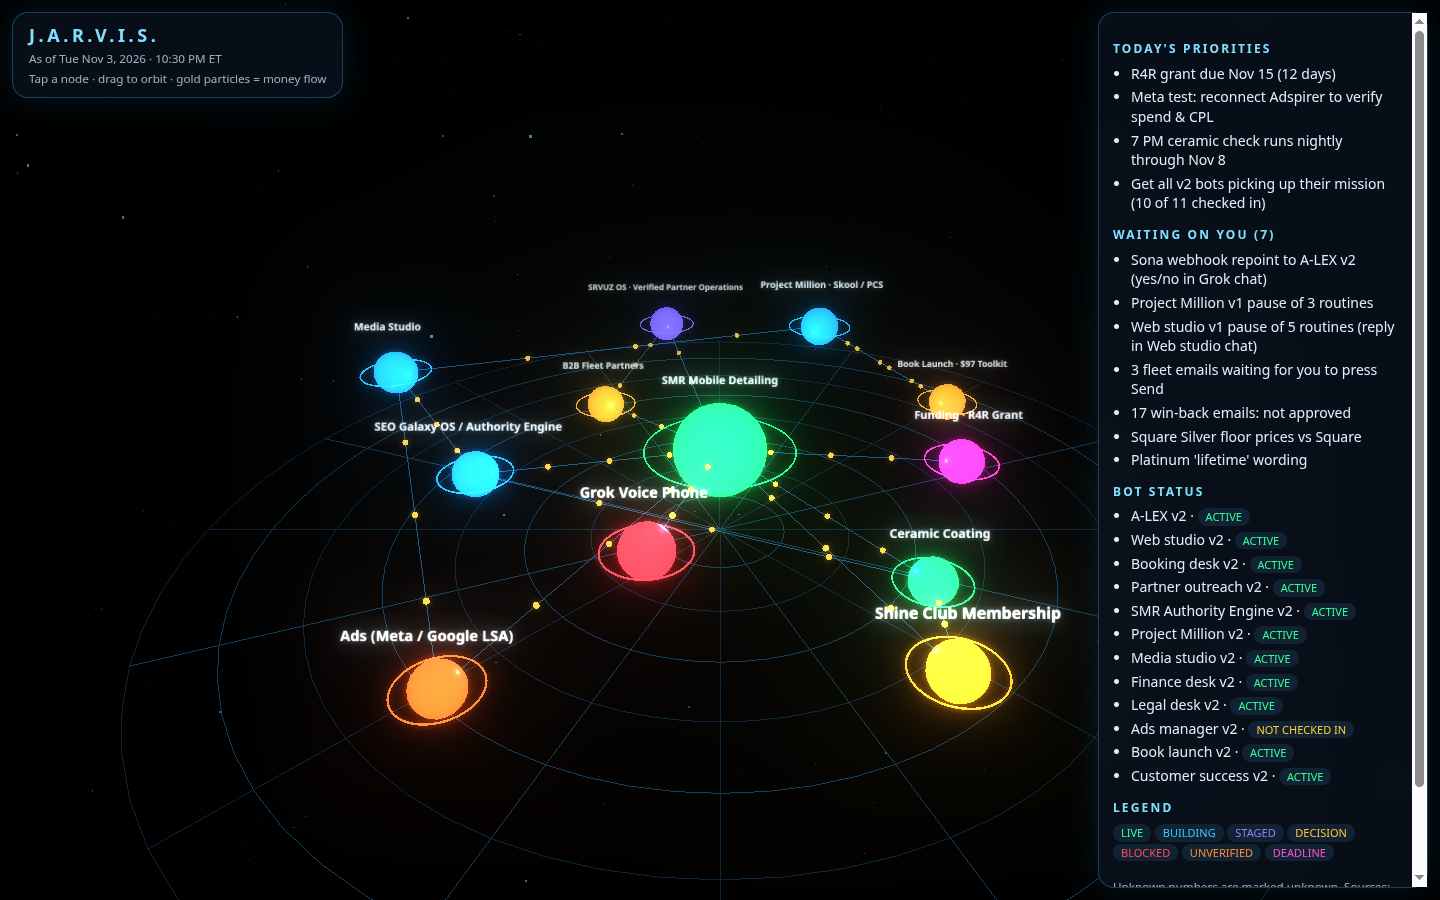
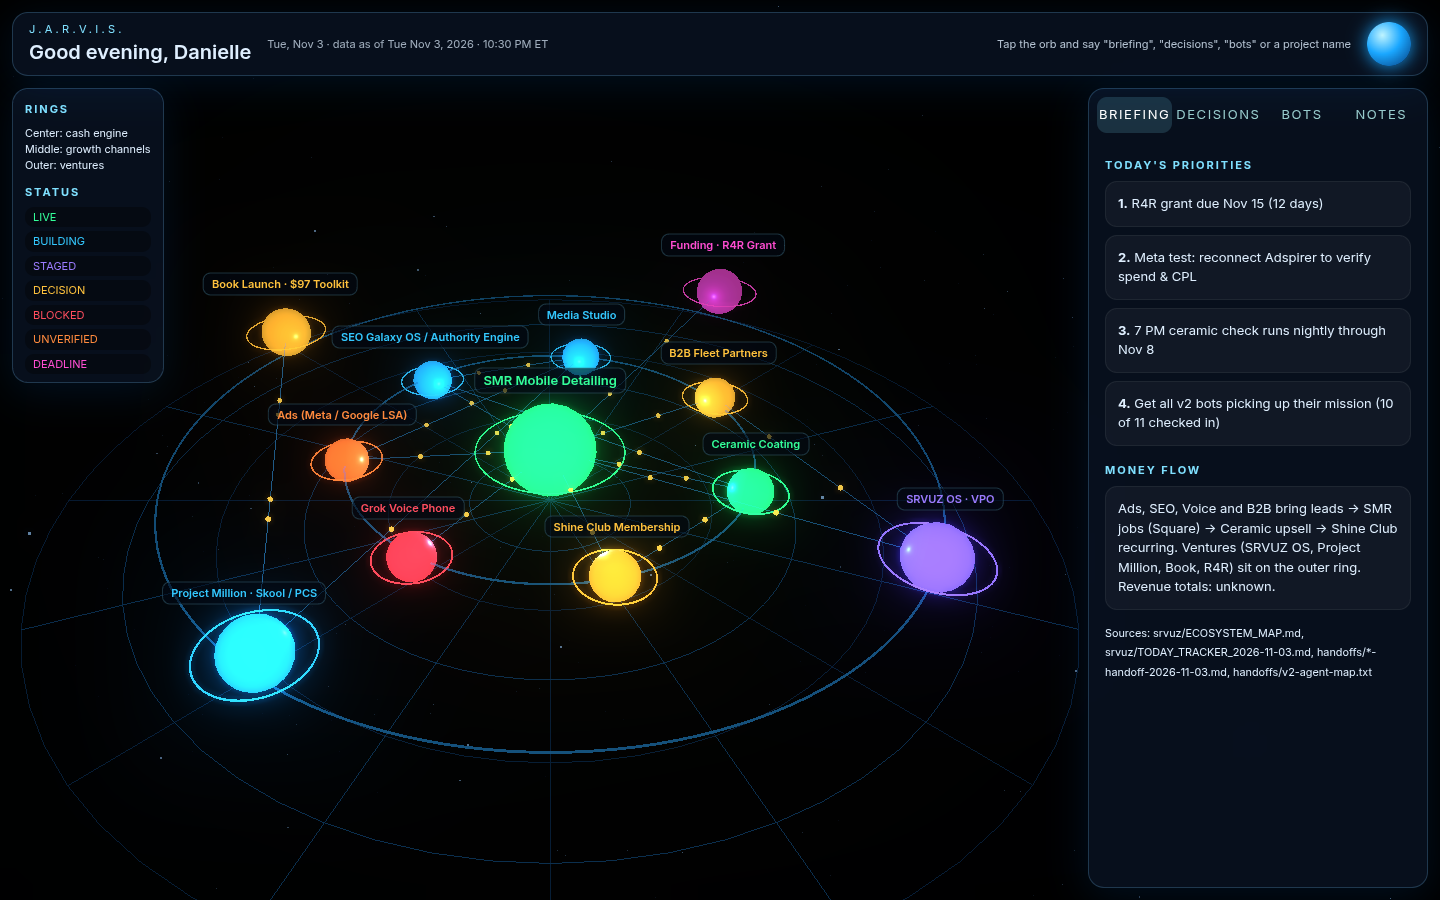
organized layout + voice

diff --git a/index.html b/index.html
@@ -1,58 +1,103 @@
-<!doctype html><html><head><meta charset="utf-8"><meta name="viewport" content="width=device-width,initial-scale=1">
+<!doctype html><html><head><meta charset="utf-8"><meta name="viewport" content="width=device-width,initial-scale=1,viewport-fit=cover">
 <title>JARVIS · SMR / SRVUZ Ecosystem</title>
 <style>
-*{box-sizing:border-box}body{margin:0;background:#02040a;color:#dfefff;font:14px/1.4 system-ui,Segoe UI,sans-serif;overflow:hidden}
+:root{--s1:8px;--s2:12px;--s3:16px;--s4:24px;--c:#7fe0ff;--t1:20px;--t2:15px;--t3:13px;--t4:11px;--glass:rgba(14,30,56,.5);--bd:rgba(120,200,255,.22)}
+*{box-sizing:border-box}html,body{margin:0;height:100%;background:#02040a;color:#dfefff;font:var(--t3)/1.5 Inter,system-ui,Segoe UI,sans-serif;overflow:hidden}
 #c{position:fixed;inset:0}
-.glass{background:rgba(20,40,70,.35);backdrop-filter:blur(14px);-webkit-backdrop-filter:blur(14px);border:1px solid rgba(120,200,255,.25);border-radius:16px;box-shadow:0 0 30px rgba(0,160,255,.15)}
-header{position:fixed;top:12px;left:12px;padding:10px 16px}h1{margin:0;font-size:18px;letter-spacing:.2em;color:#7fe0ff}small{opacity:.7}
-#side{position:fixed;top:12px;right:12px;bottom:12px;width:330px;padding:14px;overflow:auto}
-#side h2{font-size:12px;letter-spacing:.18em;color:#7fe0ff;margin:14px 0 6px}#side li{margin:4px 0}ul{padding-left:18px;margin:0}
-#detail{position:fixed;left:12px;bottom:12px;width:360px;padding:14px;display:none}#detail h3{margin:0 0 6px;color:#9ff}
-.st{display:inline-block;padding:1px 8px;border-radius:9px;font-size:11px;text-transform:uppercase;background:#123}
-.x{float:right;cursor:pointer}
-@media(max-width:760px){#side{top:auto;left:8px;right:8px;width:auto;height:38vh;bottom:8px}#detail{left:8px;right:8px;width:auto;bottom:40vh}header{left:8px;right:8px}}
+.glass{background:var(--glass);backdrop-filter:blur(16px) saturate(140%);-webkit-backdrop-filter:blur(16px) saturate(140%);border:1px solid var(--bd);border-radius:16px;box-shadow:0 8px 40px rgba(0,120,255,.12)}
+#top{position:fixed;top:var(--s2);left:var(--s2);right:var(--s2);height:64px;display:flex;align-items:center;gap:var(--s3);padding:0 var(--s3);z-index:5}
+#top .brand{font-size:var(--t4);letter-spacing:.3em;color:var(--c)}#greet{font-size:var(--t1);font-weight:600}#date{font-size:var(--t4);opacity:.7}
+#top .grow{flex:1}#status{font-size:var(--t4);opacity:.8;max-width:38vw;text-align:right}
+#mic{width:44px;height:44px;border-radius:50%;border:0;cursor:pointer;background:radial-gradient(circle at 35% 30%,#bff4ff,#1aa7ff 45%,#053a7a);box-shadow:0 0 18px #1aa7ff;transition:transform .2s}
+#mic.on{animation:pulse 1s infinite}@keyframes pulse{50%{transform:scale(1.15);box-shadow:0 0 34px #6ff}}
+#side{position:fixed;top:88px;right:var(--s2);bottom:var(--s2);width:340px;display:flex;flex-direction:column;z-index:4;transition:transform .35s ease}
+.tabs{display:flex;gap:4px;padding:var(--s1)}.tabs button{flex:1;padding:var(--s1) 0;border:0;border-radius:10px;background:transparent;color:#9cc;font:600 var(--t4)/1 inherit;letter-spacing:.12em;text-transform:uppercase;cursor:pointer;transition:background .2s}
+.tabs button.act{background:rgba(127,224,255,.16);color:#fff}
+.pane{flex:1;overflow:auto;padding:0 var(--s3) var(--s3);display:none;animation:fade .3s}.pane.act{display:block}@keyframes fade{from{opacity:0;transform:translateY(6px)}}
+h4{font-size:var(--t4);letter-spacing:.18em;color:var(--c);margin:var(--s3) 0 var(--s1);text-transform:uppercase}
+.card{padding:var(--s2);margin-bottom:var(--s1);border-radius:12px;background:rgba(255,255,255,.04);border:1px solid rgba(255,255,255,.06)}
+.row{display:flex;justify-content:space-between;align-items:center;gap:var(--s1);padding:6px 0;border-bottom:1px solid rgba(255,255,255,.05)}
+.st{display:inline-block;padding:2px 8px;border-radius:9px;font-size:var(--t4);text-transform:uppercase;background:rgba(0,0,0,.35);white-space:nowrap}
+textarea{width:100%;min-height:200px;background:rgba(0,0,0,.3);color:#dff;border:1px solid var(--bd);border-radius:12px;padding:var(--s2);font:inherit}
+#detail{position:fixed;left:var(--s2);bottom:var(--s2);width:360px;padding:var(--s3);z-index:4;opacity:0;pointer-events:none;transform:translateY(16px);transition:.3s}
+#detail.open{opacity:1;pointer-events:auto;transform:none}#detail h3{margin:0 0 var(--s1);font-size:var(--t2);color:#bff}
+.x{float:right;cursor:pointer;opacity:.7;border:0;background:none;color:#fff;font-size:16px}
+#legend{position:fixed;left:var(--s2);top:88px;padding:var(--s1) var(--s2);z-index:3;display:flex;flex-direction:column;gap:4px}
+.tag{position:fixed;pointer-events:auto;cursor:pointer;transform:translate(-50%,-100%);font-size:var(--t4);font-weight:600;padding:2px 8px;border-radius:8px;background:rgba(2,8,20,.6);border:1px solid rgba(127,224,255,.2);white-space:nowrap;z-index:2;transition:opacity .2s}
+.tag.core{font-size:var(--t3);color:#fff}
+@media(max-width:760px){
+ #top{height:56px;padding:0 var(--s2)}#greet{font-size:var(--t2);white-space:nowrap}#date{display:none}#status,#top .brand,#legend{display:none}
+ #side{top:auto;left:0;right:0;bottom:0;width:auto;height:46vh;border-radius:20px 20px 0 0;transform:translateY(calc(100% - 92px))}
+ #side.open{transform:none}#grab{display:block!important}
+ #detail{left:var(--s1);right:var(--s1);width:auto;bottom:100px}
+ .tag{font-size:10px}}
+#grab{display:none;width:44px;height:5px;border-radius:3px;background:#7aa;margin:var(--s1) auto 0;cursor:pointer}
 </style>
 <script type="importmap">{"imports":{"three":"https://cdn.jsdelivr.net/npm/three@0.160.0/build/three.module.js","three/addons/":"https://cdn.jsdelivr.net/npm/three@0.160.0/examples/jsm/"}}</script>
 </head><body><canvas id="c"></canvas>
-<header class="glass"><h1>J.A.R.V.I.S.</h1><small id="asof"></small><br><small>Tap a node · drag to orbit · gold particles = money flow</small></header>
-<aside id="side" class="glass"></aside><div id="detail" class="glass"></div>
+<div id="top" class="glass"><div><div class="brand">J.A.R.V.I.S.</div><div id="greet"></div></div><div id="date"></div><div class="grow"></div><div id="status">Tap the orb and say "briefing", "decisions", "bots" or a project name</div><button id="mic" title="Talk to Jarvis" aria-label="Talk to Jarvis"></button></div>
+<div id="legend" class="glass"></div>
+<aside id="side" class="glass"><div id="grab"></div><div class="tabs"><button data-t="brief" class="act">Briefing</button><button data-t="dec">Decisions</button><button data-t="bots">Bots</button><button data-t="notes">Notes</button></div>
+<div id="brief" class="pane act"></div><div id="dec" class="pane"></div><div id="bots" class="pane"></div><div id="notes" class="pane"><h4>Your notes (saved on this device)</h4><textarea id="nt" placeholder="Type a note…"></textarea></div></aside>
+<div id="detail" class="glass"></div>
 <script type="module">
 import * as THREE from 'three';import {OrbitControls} from 'three/addons/controls/OrbitControls.js';
 import {EffectComposer} from 'three/addons/postprocessing/EffectComposer.js';import {RenderPass} from 'three/addons/postprocessing/RenderPass.js';import {UnrealBloomPass} from 'three/addons/postprocessing/UnrealBloomPass.js';
 const D=await (await fetch('data.json')).json();
-const COL={live:0x33ff99,building:0x33c8ff,staged:0x9b7bff,decision:0xffc23d,blocked:0xff4d5e,unverified:0xff8a3d,deadline:0xff4dd2};
-document.getElementById('asof').textContent='As of '+D.asOf;
-const side=document.getElementById('side');
-side.innerHTML=`<h2>TODAY'S PRIORITIES</h2><ul>${D.priorities.map(p=>`<li>${p}</li>`).join('')}</ul>
-<h2>WAITING ON YOU (${D.decisions.length})</h2><ul>${D.decisions.map(p=>`<li>${p}</li>`).join('')}</ul>
-<h2>BOT STATUS</h2><ul>${D.bots.map(([b,s])=>`<li>${b} · <span class=st style="color:${s=='active'?'#3f9':'#fc3'}">${s}</span></li>`).join('')}</ul>
-<h2>LEGEND</h2>${Object.entries(COL).map(([k,v])=>`<span class=st style="color:#${v.toString(16).padStart(6,'0')}">${k}</span> `).join('')}
-<p><small>Unknown numbers are marked unknown. Sources: ${D.sources.join(', ')}</small></p>`;
-const cv=document.getElementById('c'),R=new THREE.WebGLRenderer({canvas:cv,antialias:true,preserveDrawingBuffer:true});R.setPixelRatio(Math.min(devicePixelRatio,2));
-const S=new THREE.Scene();S.fog=new THREE.FogExp2(0x02040a,.012);const C=new THREE.PerspectiveCamera(55,1,.1,500);C.position.set(0,26,48);
-const ctl=new OrbitControls(C,cv);ctl.enableDamping=true;ctl.autoRotate=true;ctl.autoRotateSpeed=.4;
-S.add(new THREE.AmbientLight(0x88aaff,.6));const pl=new THREE.PointLight(0x66ccff,300);S.add(pl);
-const comp=new EffectComposer(R);comp.addPass(new RenderPass(S,C));const bloom=new UnrealBloomPass(new THREE.Vector2(1,1),1.1,.6,.1);comp.addPass(bloom);
-// grid + stars
-const g=new THREE.PolarGridHelper(34,16,8,64,0x114466,0x0a2a44);g.position.y=-6;S.add(g);
+const COL={live:0x33ff99,building:0x33c8ff,staged:0x9b7bff,decision:0xffc23d,blocked:0xff4d5e,unverified:0xff8a3d,deadline:0xff4dd2};const hex=v=>'#'+v.toString(16).padStart(6,'0');
+const RING={smr:0,ceramic:1,club:1,voice:1,ads:1,seo:1,media:1,b2b:1,vpo:2,pm:2,book:2,fund:2};const RAD=[0,13,24];
+const $=id=>document.getElementById(id);const h=new Date().getHours();
+$('greet').textContent=(h<12?'Good morning':h<18?'Good afternoon':'Good evening')+(innerWidth<760?'':', Danielle');$('date').textContent=new Date().toLocaleDateString('en-US',{weekday:'short',month:'short',day:'numeric'})+' · data as of '+D.asOf;
+$('legend').innerHTML='<h4 style="margin:4px 0">Rings</h4><small>Center: cash engine<br>Middle: growth channels<br>Outer: ventures</small><h4 style="margin:6px 0 2px">Status</h4>'+Object.entries(COL).map(([k,v])=>`<span class=st style="color:${hex(v)}">${k}</span>`).join('');
+$('brief').innerHTML=`<h4>Today's priorities</h4>${D.priorities.map((p,i)=>`<div class=card><b>${i+1}.</b> ${p}</div>`).join('')}<h4>Money flow</h4><div class=card>Ads, SEO, Voice and B2B bring leads → SMR jobs (Square) → Ceramic upsell → Shine Club recurring. Ventures (SRVUZ OS, Project Million, Book, R4R) sit on the outer ring. Revenue totals: unknown.</div><p><small>Sources: ${D.sources.join(', ')}</small></p>`;
+$('dec').innerHTML=`<h4>Waiting on you (${D.decisions.length})</h4>`+D.decisions.map(d=>`<div class=card>${d}</div>`).join('');
+$('bots').innerHTML='<h4>v2 bot status</h4>'+D.bots.map(([b,s])=>`<div class=row><span>${b}</span><span class=st style="color:${s=='active'?'#3f9':'#fc3'}">${s}</span></div>`).join('');
+$('nt').value=localStorage.getItem('jv-notes')||'';$('nt').oninput=e=>localStorage.setItem('jv-notes',e.target.value);
+function tab(t){document.querySelectorAll('.tabs button').forEach(b=>b.classList.toggle('act',b.dataset.t==t));document.querySelectorAll('.pane').forEach(p=>p.classList.toggle('act',p.id==t));$('side').classList.add('open')}
+document.querySelectorAll('.tabs button').forEach(b=>b.onclick=()=>tab(b.dataset.t));$('grab').onclick=()=>$('side').classList.toggle('open');
+// 3D
+const cv=$('c'),R=new THREE.WebGLRenderer({canvas:cv,antialias:true,preserveDrawingBuffer:true});R.setPixelRatio(Math.min(devicePixelRatio,2));
+const S=new THREE.Scene();S.fog=new THREE.FogExp2(0x02040a,.011);const C=new THREE.PerspectiveCamera(50,1,.1,500);C.position.set(0,34,52);
+const ctl=new OrbitControls(C,cv);ctl.enableDamping=true;ctl.dampingFactor=.06;ctl.autoRotate=true;ctl.autoRotateSpeed=.3;ctl.maxDistance=110;ctl.minDistance=12;
+S.add(new THREE.AmbientLight(0x88aaff,.6));S.add(new THREE.PointLight(0x66ccff,400));
+const comp=new EffectComposer(R);comp.addPass(new RenderPass(S,C));comp.addPass(new UnrealBloomPass(new THREE.Vector2(1,1),.9,.6,.15));
+RAD.slice(1).forEach(r=>{const m=new THREE.Mesh(new THREE.TorusGeometry(r,.06,8,160),new THREE.MeshBasicMaterial({color:0x1f6fa8,transparent:true,opacity:.6}));m.rotation.x=Math.PI/2;S.add(m)});
+const g=new THREE.PolarGridHelper(32,16,6,64,0x0c3355,0x07203a);g.position.y=-4;S.add(g);
 const sg=new THREE.BufferGeometry(),sp=[];for(let i=0;i<1500;i++)sp.push((Math.random()-.5)*300,(Math.random()-.5)*300,(Math.random()-.5)*300);sg.setAttribute('position',new THREE.Float32BufferAttribute(sp,3));S.add(new THREE.Points(sg,new THREE.PointsMaterial({color:0x6688aa,size:.3})));
-function label(t){const c=document.createElement('canvas');c.width=1024;c.height=96;const x=c.getContext('2d');x.font='bold 34px system-ui';x.fillStyle='#dff6ff';x.textAlign='center';x.fillText(t,512,60);const s=new THREE.Sprite(new THREE.SpriteMaterial({map:new THREE.CanvasTexture(c),transparent:true,depthWrite:false}));s.scale.set(20,1.9,1);return s}
-const N={},meshes=[];const outer=D.nodes.filter(n=>!n.core);
-D.nodes.forEach(n=>{const col=COL[n.status]||0xffffff;const r=n.core?3:1.4;
- const m=new THREE.Mesh(new THREE.IcosahedronGeometry(r,3),new THREE.MeshStandardMaterial({color:col,emissive:col,emissiveIntensity:.7,metalness:.4,roughness:.2}));
- const ring=new THREE.Mesh(new THREE.TorusGeometry(r*1.6,.05,8,64),new THREE.MeshBasicMaterial({color:col}));ring.rotation.x=Math.PI/2;m.add(ring);
- const l=label(n.name);l.position.y=r+1.8;m.add(l);m.userData={n,ring};S.add(m);meshes.push(m);N[n.id]=m;
- if(!n.core){const i=outer.indexOf(n);m.userData.a=i/outer.length*Math.PI*2;m.userData.rad=i%2?22:15;m.userData.y=(i%3-1)*3;}});
-const lines=D.links.map(([a,b])=>{const geo=new THREE.BufferGeometry().setFromPoints([new THREE.Vector3(),new THREE.Vector3()]);const ln=new THREE.Line(geo,new THREE.LineBasicMaterial({color:0x2a7fbf,transparent:true,opacity:.5}));S.add(ln);return {a:N[a],b:N[b],ln}});
-const P=[];const pg=new THREE.SphereGeometry(.18,8,8),pm=new THREE.MeshBasicMaterial({color:0xffd34d});
-lines.forEach(L=>{for(let k=0;k<4;k++){const p=new THREE.Mesh(pg,pm);p.userData={L,t:k/4};S.add(p);P.push(p)}});
-const ray=new THREE.Raycaster(),mv=new THREE.Vector2(),det=document.getElementById('detail');
-cv.addEventListener('pointerup',e=>{mv.set(e.clientX/innerWidth*2-1,-e.clientY/innerHeight*2+1);ray.setFromCamera(mv,C);const h=ray.intersectObjects(meshes,false)[0];if(!h)return;const n=h.object.userData.n;
- det.style.display='block';det.innerHTML=`<span class=x onclick="this.parentNode.style.display='none'">✕</span><h3>${n.name}</h3><span class=st style="color:#${(COL[n.status]).toString(16).padStart(6,'0')}">${n.status}</span><p><b>Owner bot:</b> ${n.owner}</p><p><b>Money link:</b> ${n.revenue}</p><ul>${n.facts.map(f=>`<li>${f}</li>`).join('')}</ul><p><small>Connected to: ${D.links.filter(l=>l.includes(n.id)).map(l=>D.nodes.find(x=>x.id==(l[0]==n.id?l[1]:l[0])).name).join(', ')}</small></p>`});
-function rs(){R.setSize(innerWidth,innerHeight);comp.setSize(innerWidth,innerHeight);C.aspect=innerWidth/innerHeight;C.fov=innerWidth<760?75:55;C.updateProjectionMatrix()}addEventListener('resize',rs);rs();
-const clk=new THREE.Clock();(function loop(){const t=clk.getElapsedTime();
- meshes.forEach(m=>{const u=m.userData;if(u.a!==undefined){const a=u.a+t*.05*(u.rad<20?1.3:1);m.position.set(Math.cos(a)*u.rad,u.y+Math.sin(t+u.a)*.5,Math.sin(a)*u.rad)}u.ring.rotation.z=t;m.rotation.y=t*.3});
+const N={},meshes=[];[1,2].forEach(r=>{const L=D.nodes.filter(n=>RING[n.id]==r);L.forEach((n,i)=>{n._a=i/L.length*Math.PI*2+(r==2?.4:0)})});
+D.nodes.forEach(n=>{const col=COL[n.status]||0xffffff,ring=RING[n.id]??1,r=ring==0?3:ring==1?1.4:1.8;
+ const m=new THREE.Mesh(new THREE.IcosahedronGeometry(r,3),new THREE.MeshStandardMaterial({color:col,emissive:col,emissiveIntensity:.65,metalness:.4,roughness:.25}));
+ const halo=new THREE.Mesh(new THREE.TorusGeometry(r*1.6,.05,8,64),new THREE.MeshBasicMaterial({color:col}));halo.rotation.x=Math.PI/2;m.add(halo);
+ const tag=document.createElement('div');tag.className='tag'+(ring==0?' core':'');tag.textContent=n.name.replace(' · Verified Partner Operations',' · VPO');tag.style.color=hex(col);tag.onclick=()=>open(n);document.body.appendChild(tag);
+ m.userData={n,halo,tag,ring,r};S.add(m);meshes.push(m);N[n.id]=m});
+const lines=D.links.map(([a,b])=>{const geo=new THREE.BufferGeometry().setFromPoints([new THREE.Vector3(),new THREE.Vector3()]);const ln=new THREE.Line(geo,new THREE.LineBasicMaterial({color:0x2a7fbf,transparent:true,opacity:.4}));S.add(ln);return {a:N[a],b:N[b],ln}});
+const P=[],pg=new THREE.SphereGeometry(.16,8,8),pm=new THREE.MeshBasicMaterial({color:0xffd34d});lines.forEach(L=>{for(let k=0;k<3;k++){const p=new THREE.Mesh(pg,pm);p.userData={L,t:k/3};S.add(p);P.push(p)}});
+let focus=null;const tgt=new THREE.Vector3();
+function open(n){const d=$('detail');focus=N[n.id];ctl.autoRotate=false;
+ d.innerHTML=`<button class=x onclick="window.closeD()">✕</button><h3>${n.name}</h3><span class=st style="color:${hex(COL[n.status])}">${n.status}</span><div class=row><span>Owner bot</span><b>${n.owner}</b></div><p><b>Money link:</b> ${n.revenue}</p>${n.facts.map(f=>`<div class=card>${f}</div>`).join('')}<small>Connected to: ${D.links.filter(l=>l.includes(n.id)).map(l=>D.nodes.find(x=>x.id==(l[0]==n.id?l[1]:l[0])).name).join(', ')}</small>`;d.classList.add('open');return n}
+window.closeD=()=>{$('detail').classList.remove('open');focus=null;ctl.autoRotate=true};
+const ray=new THREE.Raycaster(),mv=new THREE.Vector2();let down;cv.addEventListener('pointerdown',e=>down=[e.clientX,e.clientY]);
+cv.addEventListener('pointerup',e=>{if(Math.hypot(e.clientX-down[0],e.clientY-down[1])>6)return;mv.set(e.clientX/innerWidth*2-1,-e.clientY/innerHeight*2+1);ray.setFromCamera(mv,C);const hit=ray.intersectObjects(meshes,false)[0];hit?open(hit.object.userData.n):window.closeD()});
+function rs(){R.setSize(innerWidth,innerHeight);comp.setSize(innerWidth,innerHeight);C.aspect=innerWidth/innerHeight;const m=innerWidth<760;C.fov=m?62:50;C.position.setLength(m?95:62);m?C.clearViewOffset():C.setViewOffset(innerWidth,innerHeight,170,0,innerWidth,innerHeight);C.updateProjectionMatrix()}addEventListener('resize',rs);rs();
+const v=new THREE.Vector3(),clk=new THREE.Clock();
+(function loop(){const t=clk.getElapsedTime();
+ meshes.forEach(m=>{const u=m.userData,n=u.n;if(u.ring){const a=n._a+t*(u.ring==1?.04:.02);m.position.set(Math.cos(a)*RAD[u.ring],Math.sin(t*.8+n._a)*.4+(u.ring==2?2:0),Math.sin(a)*RAD[u.ring])}u.halo.rotation.z=t;m.rotation.y=t*.3});
  lines.forEach(L=>{const p=L.ln.geometry.attributes.position;p.setXYZ(0,...L.a.position.toArray());p.setXYZ(1,...L.b.position.toArray());p.needsUpdate=true});
  P.forEach(p=>{const u=p.userData;u.t=(u.t+.004)%1;p.position.lerpVectors(u.L.a.position,u.L.b.position,u.t)});
- ctl.update();comp.render();requestAnimationFrame(loop)})();
+ tgt.lerp(focus?focus.position:new THREE.Vector3(),.05);ctl.target.copy(tgt);ctl.update();
+ // tags: project, hide behind camera, de-overlap
+ const placed=[];meshes.slice().sort((a,b)=>a.userData.ring-b.userData.ring).forEach(m=>{const u=m.userData;v.copy(m.position);v.y+=u.r+1.2;v.project(C);let x=(v.x+1)/2*innerWidth,y=(1-v.y)/2*innerHeight;
+  for(const q of placed)if(Math.abs(q[0]-x)<q[2]&&Math.abs(q[1]-y)<18)y=q[1]-20;
+  const w=u.tag.offsetWidth/2+u.tag.offsetWidth/2;placed.push([x,y,w]);x=Math.max(u.tag.offsetWidth/2+4,Math.min(innerWidth-u.tag.offsetWidth/2-4,x));u.tag.style.left=x+'px';u.tag.style.top=y+'px';u.tag.style.opacity=v.z<1?1:0});
+ comp.render();requestAnimationFrame(loop)})();
+// Voice
+const say=t=>{if(!speechSynthesis)return;speechSynthesis.cancel();const u=new SpeechSynthesisUtterance(t);u.rate=1.02;speechSynthesis.speak(u);$('status').textContent=t.slice(0,120)};
+function cmd(q){q=q.toLowerCase();
+ if(/decision|waiting|approve/.test(q)){tab('dec');return say(`You have ${D.decisions.length} decisions waiting. `+D.decisions.join('. '))}
+ if(/bot|team|agent/.test(q)){tab('bots');const off=D.bots.filter(b=>b[1]!='active').map(b=>b[0]);return say(`${D.bots.length-off.length} of ${D.bots.length} bots are active.`+(off.length?' Not checked in: '+off.join(', '):''))}
+ if(/note/.test(q)){tab('notes');return say('Notes are open.')}
+ const n=D.nodes.find(n=>n.name.toLowerCase().split(/[ ·/()]+/).some(w=>w.length>3&&q.includes(w)));if(n){open(n);return say(`${n.name}. Status ${n.status}. Owner ${n.owner}. ${n.revenue}`)}
+ tab('brief');say('Here is your briefing. '+D.priorities.join('. ')+`. And ${D.decisions.length} decisions are waiting on you.`)}
+const SR=window.SpeechRecognition||window.webkitSpeechRecognition;
+$('mic').onclick=()=>{if(!SR)return cmd('briefing');const r=new SR();r.lang='en-US';$('mic').classList.add('on');$('status').textContent='Listening…';r.onresult=e=>cmd(e.results[0][0].transcript);r.onerror=()=>cmd('briefing');r.onend=()=>$('mic').classList.remove('on');r.start()};
 </script></body></html>
